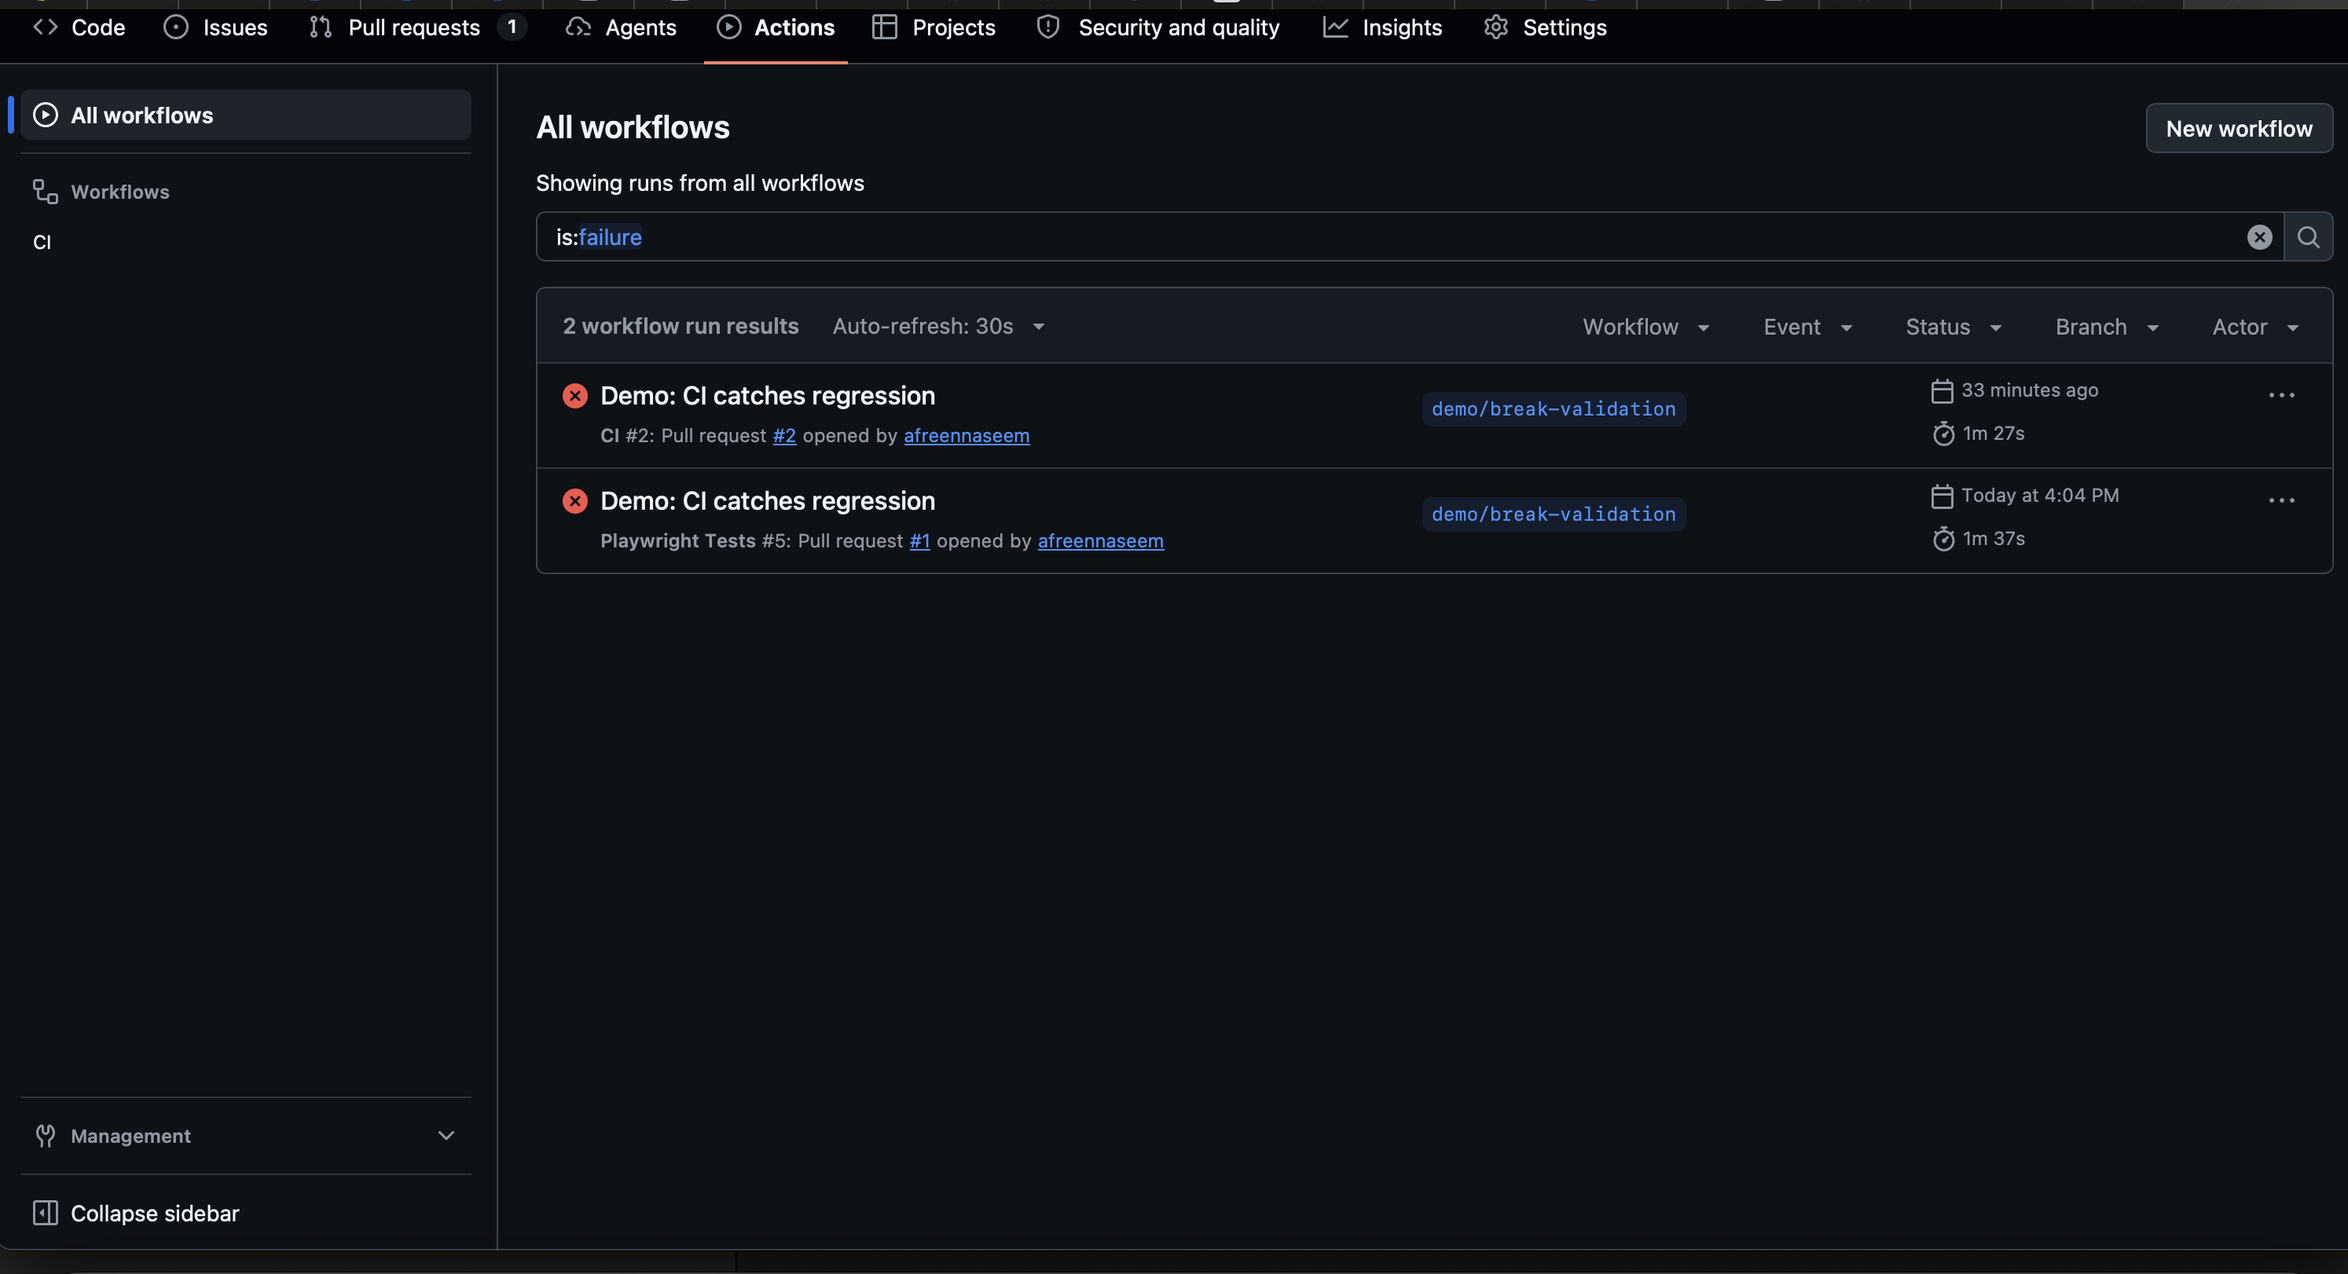
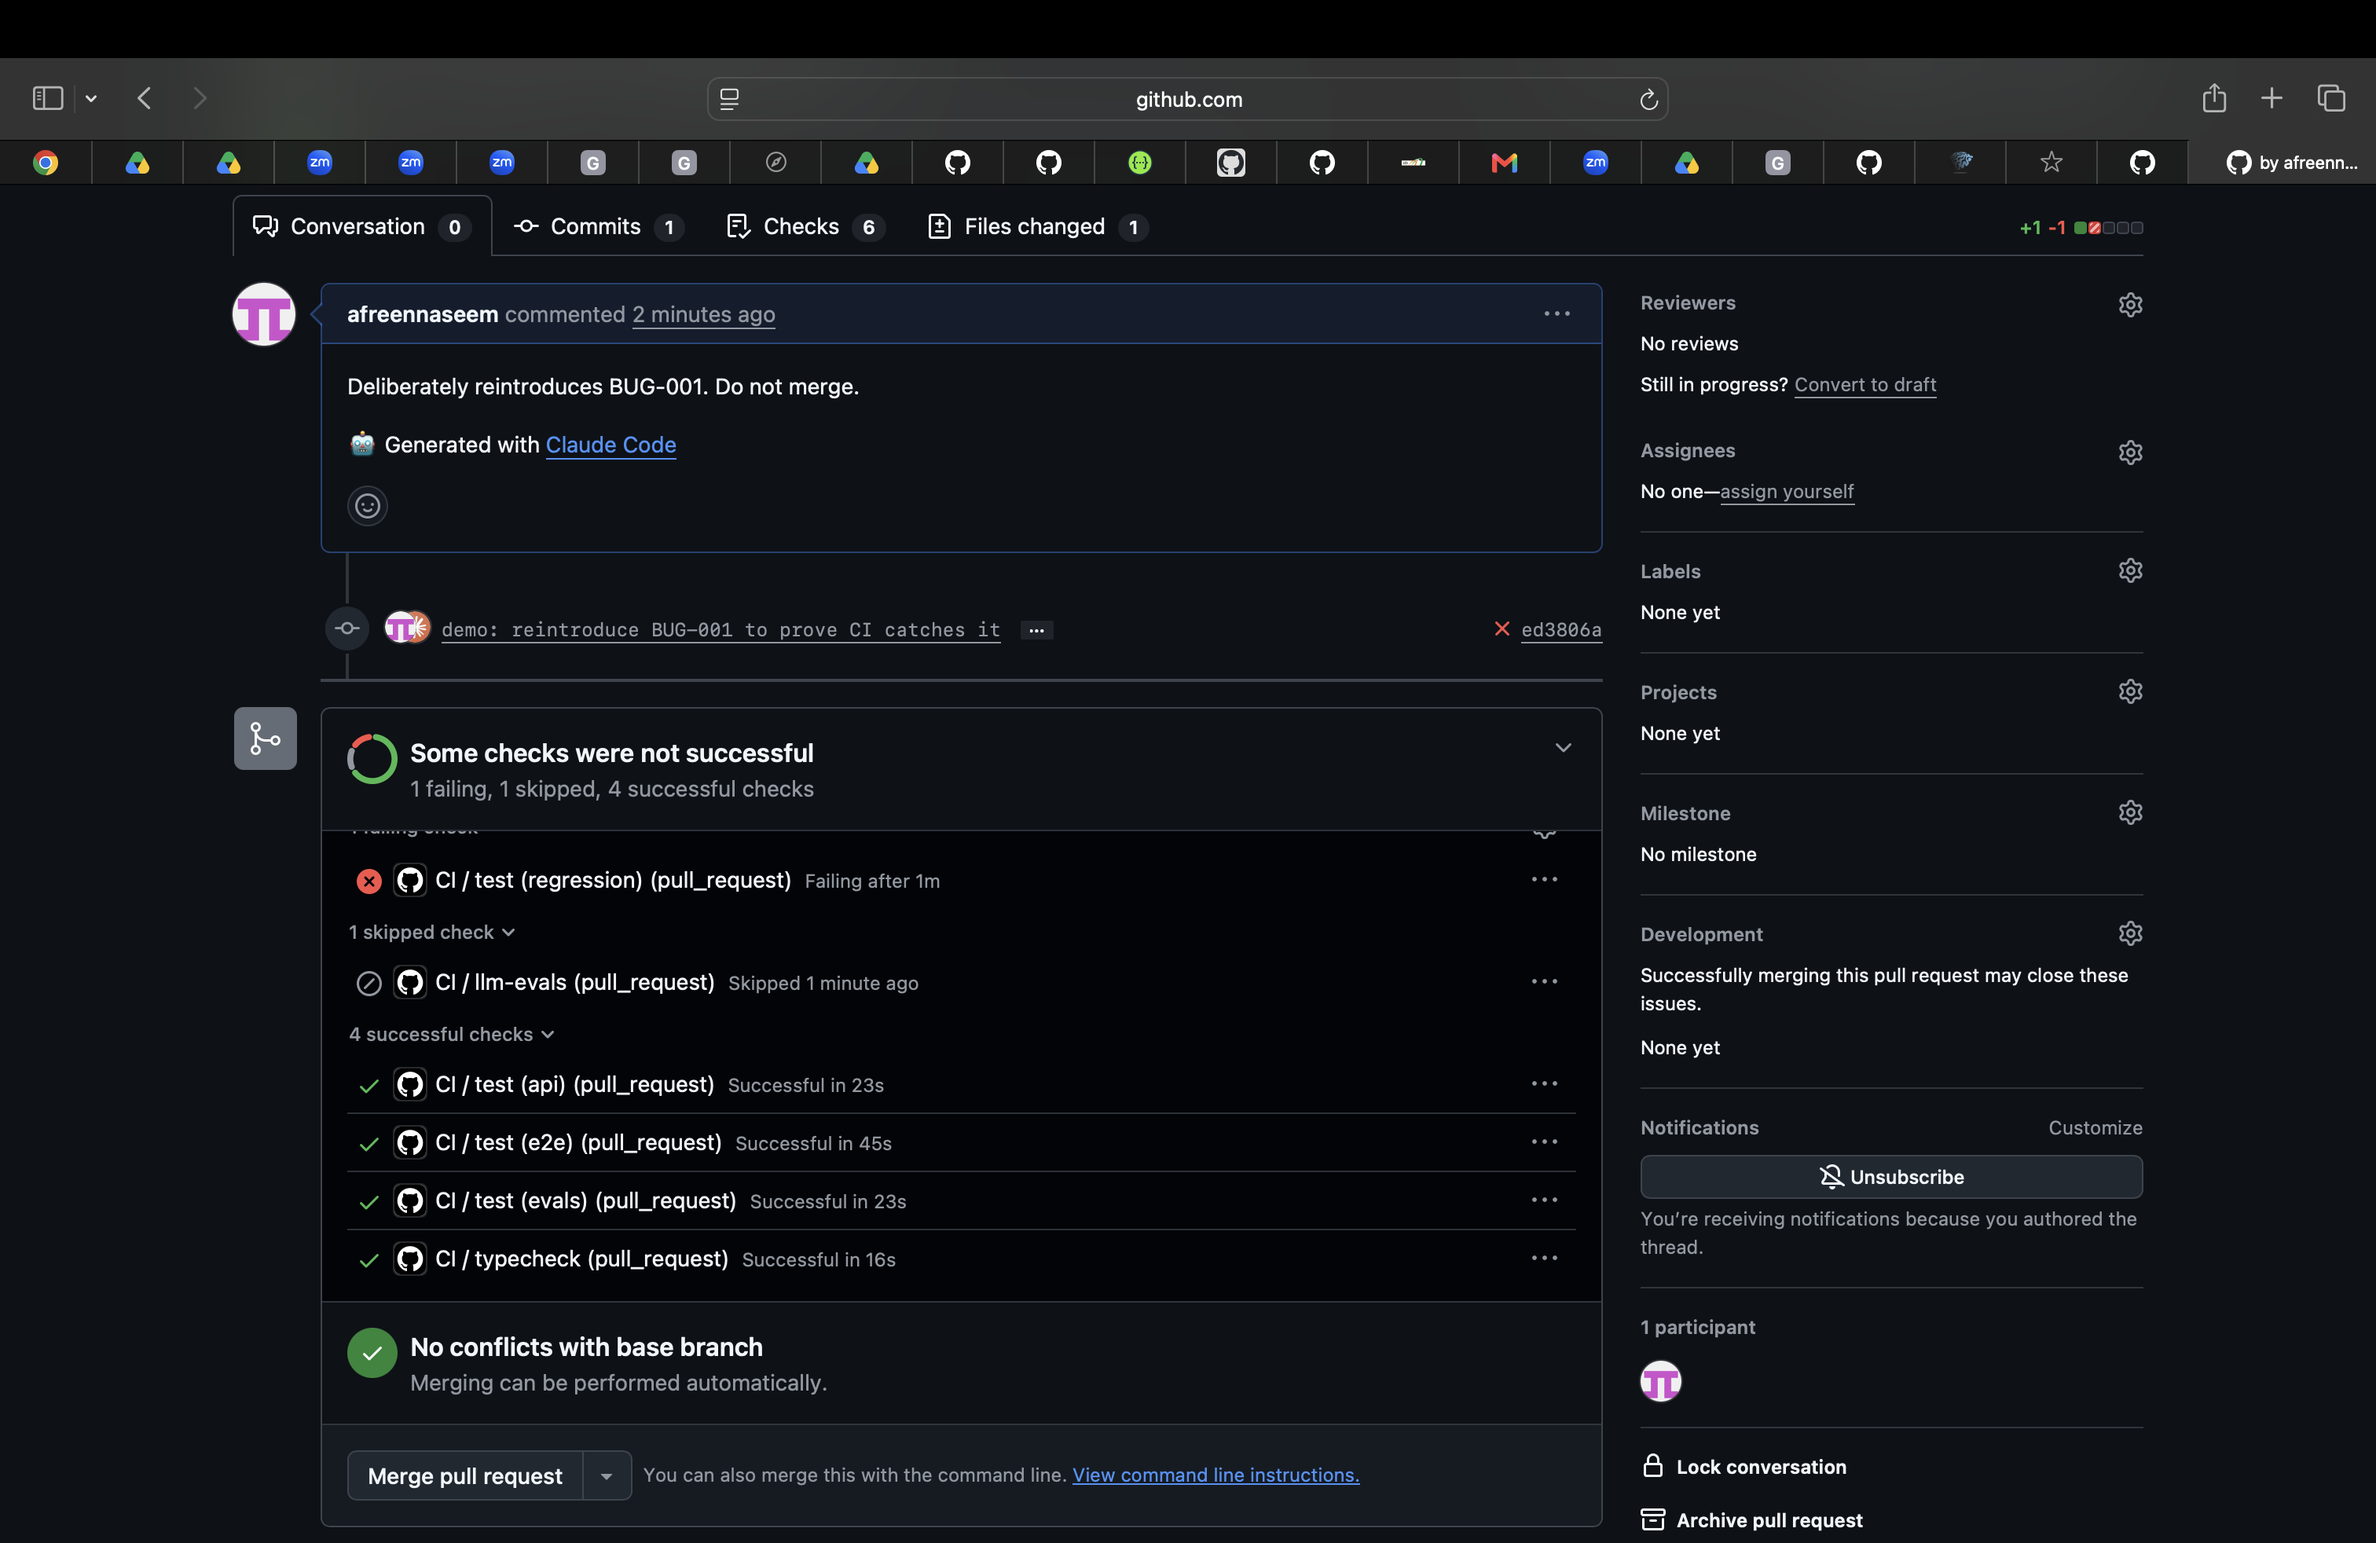
docs: rename screenshots to match content and fix README image links

diff --git a/README.md b/README.md
@@ -134,19 +134,23 @@ bug would have merged.
 
 CI on `main`: typecheck, then the four-layer matrix; `llm-evals` skipped.
 
-![CI green on main](docs/images/Screenshot%202026-11-14%20at%2018.49.24.png)
+![CI green on main](docs/images/ci-green.png)
 
 The BUG-001 demo PR: only the regression check fails.
 
-![CI red on the demo PR](docs/images/Screenshot%202026-11-14%20at%2018.33.49.png)
+![Regression check failing on the demo PR](docs/images/ci-pr-red.png)
+
+Failed runs in Actions: both BUG-001 demo PRs, under the old Playwright workflow and the new CI.
+
+![Failed demo runs in GitHub Actions](docs/images/ci-failed-runs.png)
 
 The regression report locally with the bug reintroduced.
 
-![Regression report with BUG-001 failures](docs/images/Screenshot%202026-11-14%20at%2015.29.33.png)
+![Regression report with BUG-001 failures](docs/images/regression-red-local.png)
 
 The app after screening a sanctions-list name.
 
-![Onboarding UI with a high-risk result](docs/images/Screenshot%202026-11-14%20at%2018.55.19.png)
+![Onboarding UI with a high-risk result](docs/images/ui-screening-high.png)
 
 ## Limitations and next steps
 
